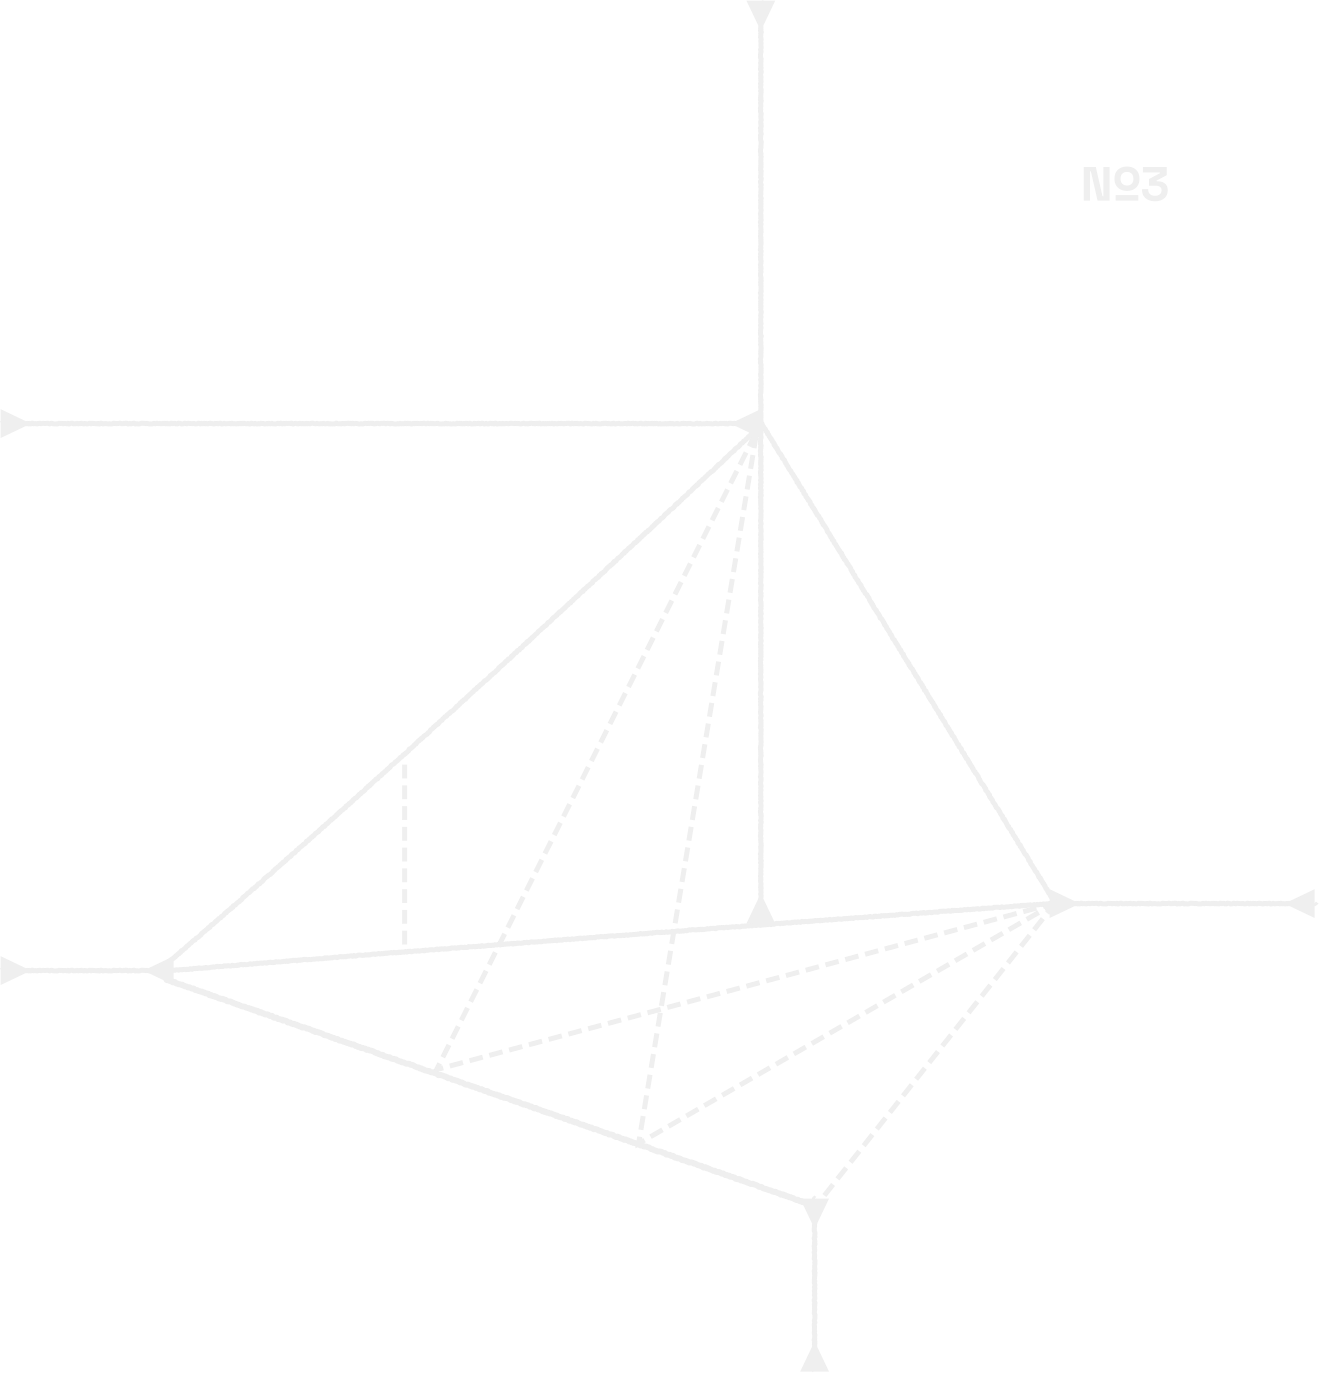
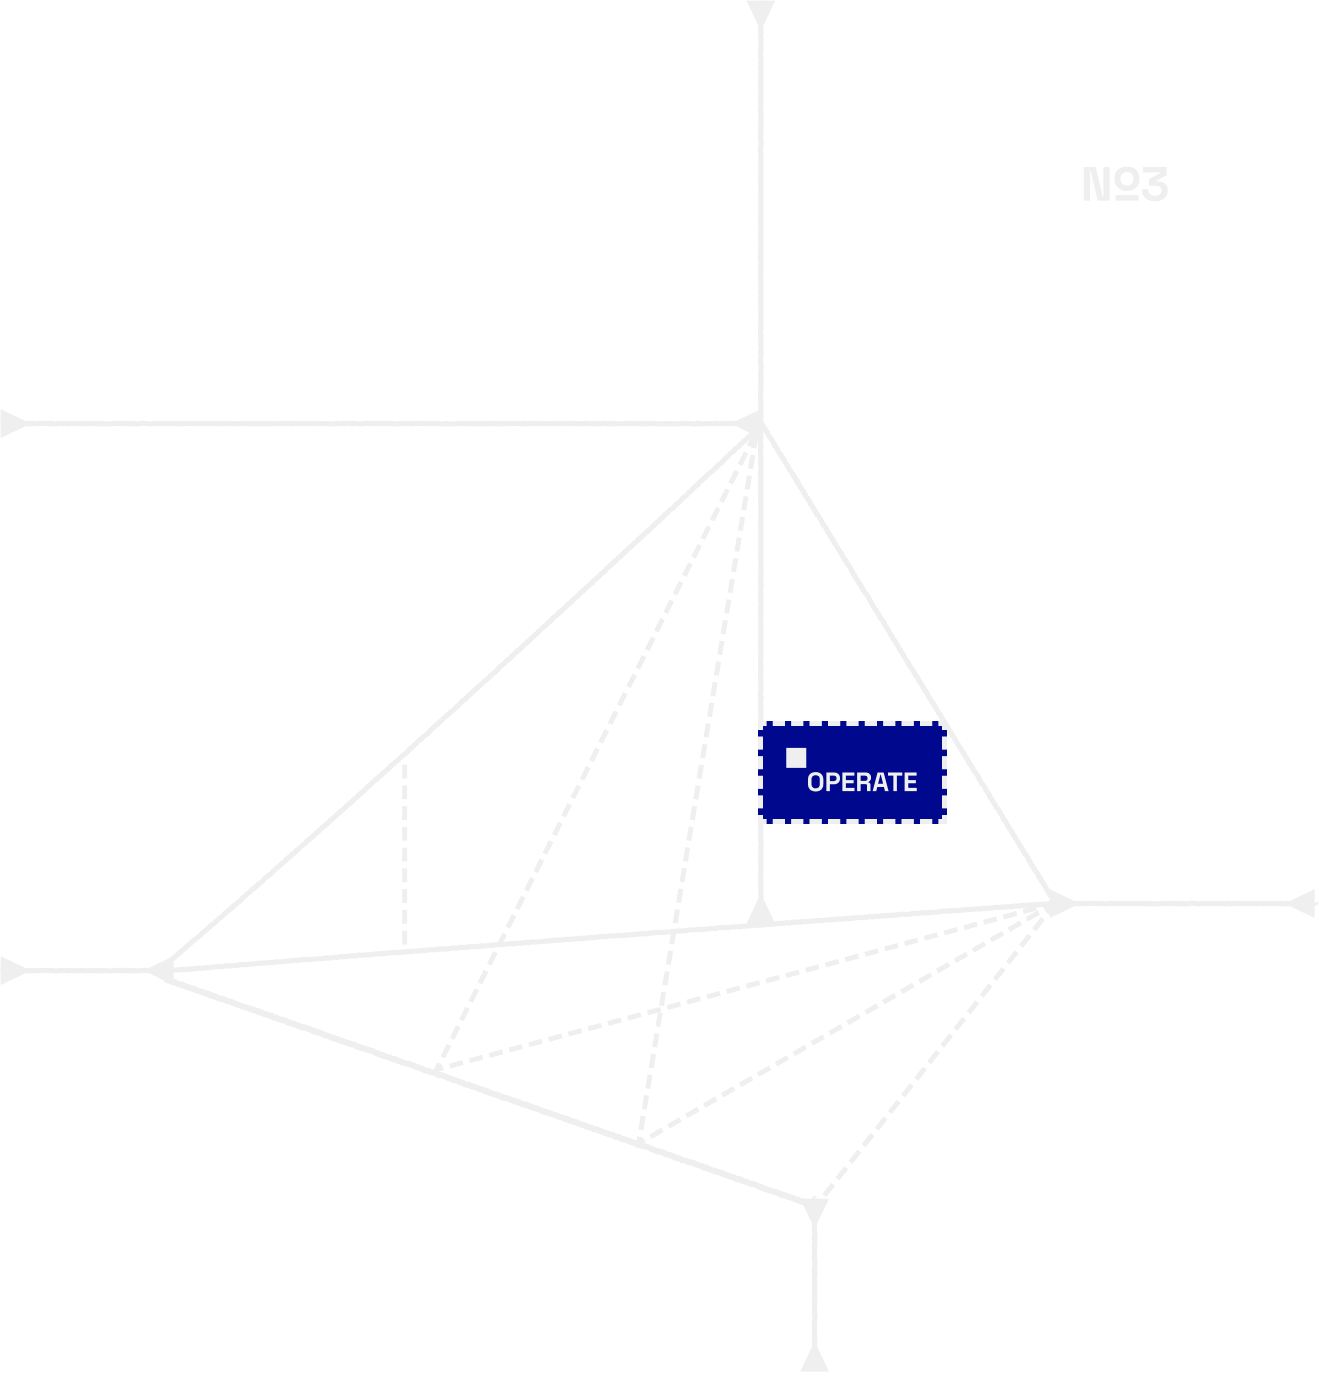
Design review fixes: full Space Grotesk (slashed zero, serif I), new step arrows, footer labels bottom-to-top, operate label, train circle, new team photo treatment

Changed region(s): [[0.5591, 0.5197, 0.7144, 0.6114]]

diff --git a/app/layout.tsx b/app/layout.tsx
@@ -1,10 +1,14 @@
 import type { Metadata } from 'next';
-import { DM_Sans, Space_Grotesk, Space_Mono } from 'next/font/google';
+import { DM_Sans, Space_Mono } from 'next/font/google';
+import localFont from 'next/font/local';
 import './globals.css';
 
-const spaceGrotesk = Space_Grotesk({
-  subsets: ['latin'],
-  weight: ['400', '500', '700'],
+// Space Grotesk self-hosted in full (google/fonts' variable TTF as woff2, every glyph and
+// feature kept): the Google Fonts copy drops the slashed zero ('zero') and the serifed
+// capital I ('ss05') the design uses
+const spaceGrotesk = localFont({
+  src: './fonts/SpaceGrotesk-Variable.woff2',
+  weight: '300 700',
   variable: '--font-space-grotesk',
 });
 

diff --git a/components/team/Team.tsx b/components/team/Team.tsx
@@ -150,7 +150,7 @@ export default function Team() {
             {/* LAYER 1 + 2: treated photo, clean photo revealed through the window */}
             <div className={styles.media} aria-hidden>
               {/* eslint-disable-next-line @next/next/no-img-element */}
-              <img className={styles.photo} src="/media/team-treated.webp" alt="" />
+              <img className={styles.treatedPhoto} src="/media/team-treated.webp" alt="" />
               <div className={styles.clean}>
                 {/* eslint-disable-next-line @next/next/no-img-element */}
                 <img className={styles.photo} src="/media/team-clean.webp" alt="" />

diff --git a/components/team/Team.module.css b/components/team/Team.module.css
@@ -96,6 +96,17 @@
   user-select: none;
 }
 
+/* the treated photo: Figma 572:2494's render, already cropped to the media box */
+.treatedPhoto {
+  position: absolute;
+  left: 0;
+  top: 0;
+  width: 1346.6px;
+  height: 719px;
+  max-width: none;
+  user-select: none;
+}
+
 .clean {
   position: absolute;
   inset: 0;

diff --git a/components/footer/Footer.module.css b/components/footer/Footer.module.css
@@ -242,7 +242,9 @@
 }
 
 .cellLabel {
+  /* reads bottom to top, as in Figma 573:1484 */
   writing-mode: vertical-rl;
+  transform: rotate(180deg);
   color: var(--line);
   font-family: var(--font-space-grotesk), sans-serif;
   font-weight: 700;
